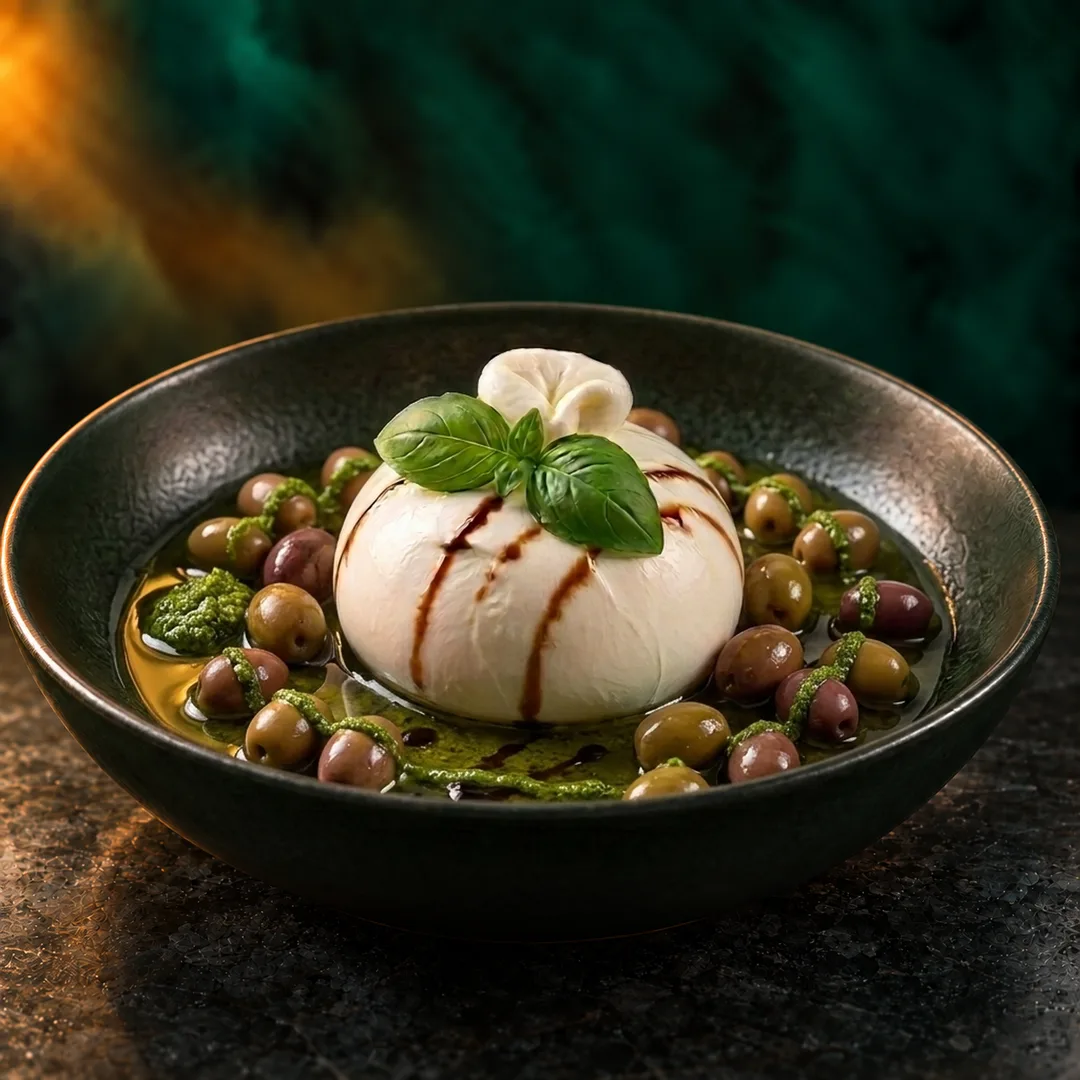
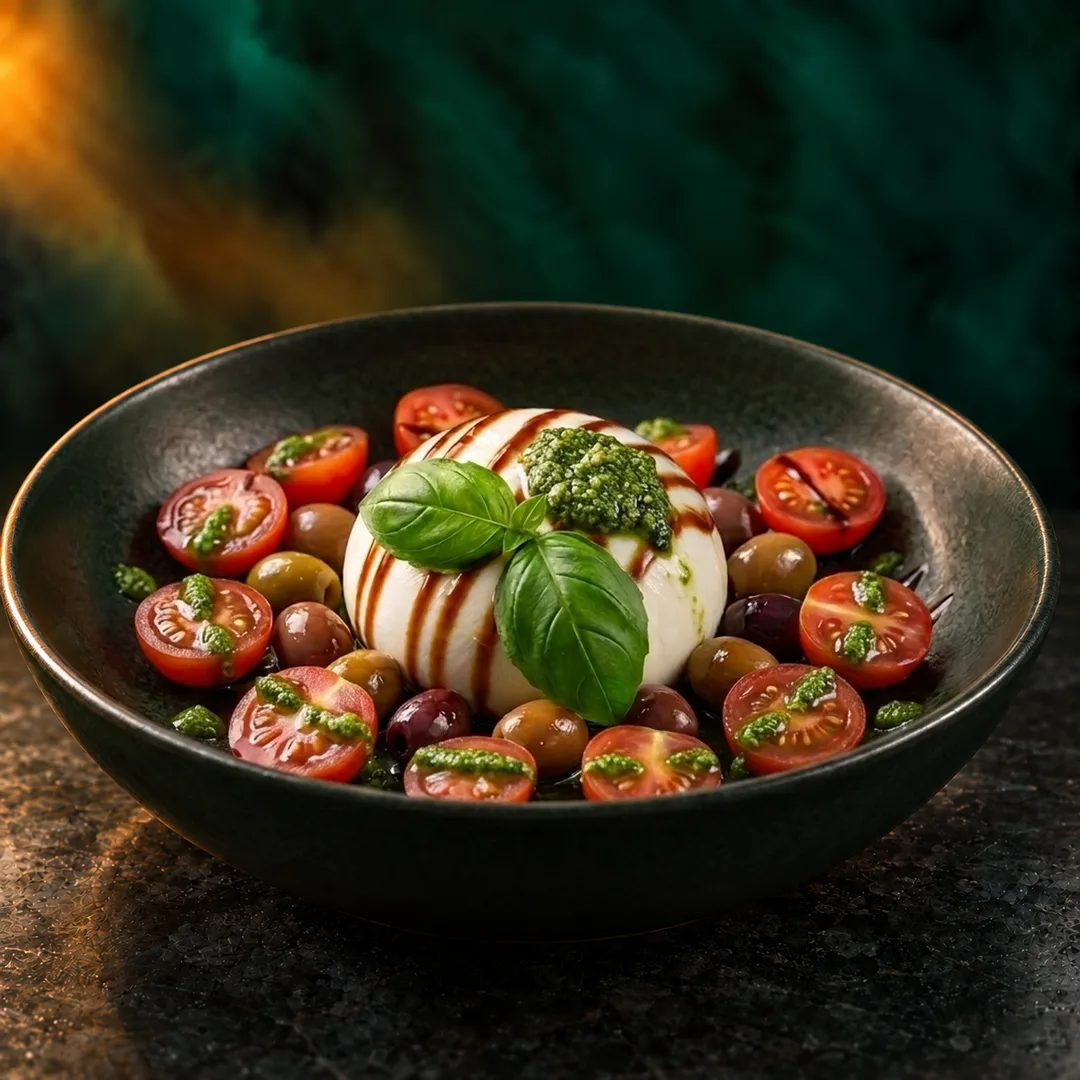
Carte : Rigatoni Carbonara ; pâtes sans tomate cerise dans les descriptions ; burrata avec tomates et pesto ; crêpes mieux décrites

Changed region(s): [[0.0611, 0.3056, 0.9472, 0.7639]]

diff --git a/tests/site.spec.ts b/tests/site.spec.ts
@@ -32,13 +32,14 @@ const dishes: { id: string; tab?: string; name: string; has: string[]; hasNot?: 
   { id: 'panuozzo-rosso', tab: 'panuozzo', name: 'Rosso', has: ['pain en pâte à pizza', 'crème de poivrons', 'roquette', 'jambon de dinde', 'chorizo finement tranché', 'stracciatella', 'poivrons', 'oignons confits', 'huile piquante'] },
   { id: 'panuozzo-tartufo', tab: 'panuozzo', name: 'Tartufo', has: ['pain en pâte à pizza', 'crème de truffe', 'roquette', 'jambon de dinde', 'jambon de bœuf', 'stracciatella', 'champignons poêlés', 'copeaux de parmesan', 'poivre moulu'] },
   { id: 'panuozzo-verde', tab: 'panuozzo', name: 'Verde', has: ['pain en pâte à pizza', 'pesto basilic', 'roquette', 'jambon de dinde', 'stracciatella', 'tomates cerises confites', 'copeaux de parmesan', 'crème balsamique'] },
-  { id: 'pates-spaghetti-sicilienne', tab: 'pates', name: 'Spaghetti Sicilienne', has: ['sauce tomate', 'thon', 'olives', 'parmesan', 'tomate cerise'] },
-  { id: 'pates-rigatoni-tartufo', tab: 'pates', name: 'Rigatoni Tartufo', has: ['truffe', 'champignons', 'copeaux de parmesan'] },
-  { id: 'pates-spaghetti-merguez', tab: 'pates', name: 'Spaghetti Merguez', has: ['merguez', 'sauce tomate crémeuse', 'olives', 'parmesan'] },
-  { id: 'pates-spaghetti-formaggi', tab: 'pates', name: 'Spaghetti Formaggi', has: ['gorgonzola', 'copeaux de parmesan'] },
+  { id: 'pates-spaghetti-sicilienne', tab: 'pates', name: 'Spaghetti Sicilienne', has: ['sauce tomate', 'thon', 'olives', 'parmesan'], hasNot: ['tomate cerise'] },
+  { id: 'pates-rigatoni-tartufo', tab: 'pates', name: 'Rigatoni Tartufo', has: ['truffe', 'champignons', 'copeaux de parmesan'], hasNot: ['tomate cerise'] },
+  { id: 'pates-spaghetti-merguez', tab: 'pates', name: 'Spaghetti Merguez', has: ['merguez', 'sauce tomate crémeuse', 'olives', 'parmesan'], hasNot: ['tomate cerise'] },
+  { id: 'pates-spaghetti-formaggi', tab: 'pates', name: 'Spaghetti Formaggi', has: ['gorgonzola', 'copeaux de parmesan'], hasNot: ['tomate cerise'] },
   { id: 'pates-penne-arrabiata', tab: 'pates', name: 'Penne Arrabbiata', has: ['sauce tomate relevée à l’huile piquante'], hasNot: ['parmesan'] },
-  { id: 'pates-penne-forestiere', tab: 'pates', name: 'Penne Forestière', has: ['poulet', 'champignons', 'sauce crémeuse au parmesan'] },
-  { id: 'pates-penne-saumon', tab: 'pates', name: 'Penne Saumon', has: ['saumon', 'sauce tomate crémeuse au parmesan'] },
+  { id: 'pates-penne-forestiere', tab: 'pates', name: 'Penne Forestière', has: ['poulet', 'champignons', 'sauce crémeuse au parmesan'], hasNot: ['tomate cerise'] },
+  { id: 'pates-penne-saumon', tab: 'pates', name: 'Penne Saumon', has: ['saumon', 'sauce tomate crémeuse au parmesan'], hasNot: ['tomate cerise'] },
+  { id: 'pates-rigatoni-carbonara', tab: 'pates', name: 'Rigatoni Carbonara', has: ['crème', 'jaune d’œuf', 'lardons', 'parmesan', 'poivre noir'], hasNot: ['tomate cerise'] },
   { id: 'pizzas-bollywood-style', tab: 'pizzas', name: 'Bollywood Style', has: ['sauce curry', 'mozzarella', 'poulet', 'oignons confits', 'tomates cerises', 'sauce basilic', 'crème balsamique'] },
   { id: 'pizzas-burratella-lov', tab: 'pizzas', name: 'Burratella Lov’', has: ['sauce tomate', 'stracciatella', 'jambon de dinde', 'copeaux de parmesan', 'sauce basilic', 'crème balsamique'] },
   { id: 'pizzas-classica-queen', tab: 'pizzas', name: 'Classica Queen', has: ['sauce tomate', 'mozzarella', 'champignons', 'jambon'] },
@@ -80,7 +81,7 @@ const dishes: { id: string; tab?: string; name: string; has: string[]; hasNot?: 
   { id: 'iced-latte-caramello', tab: 'iced-latte', name: 'Iced Caramello', has: ['sirop de vanille', 'café Caramello', 'lait entier', 'glaçons', 'chantilly', 'coulis caramel'] },
   { id: 'iced-latte-coffee-latte', tab: 'iced-latte', name: 'Iced Coffee Latte', has: ['sirop de sucre', 'Espresso Forte', 'lait entier', 'glaçons', 'chantilly'], hasNot: ['caramel', 'cacao'] },
   { id: 'iced-latte-nocciola', tab: 'iced-latte', name: 'Iced Nocciola', has: ['coulis chocolat', 'café Nocciola', 'lait entier', 'glaçons', 'chantilly'], hasNot: ['caramel', 'vanille'] },
-  { id: 'salade-original-burrata', tab: 'salade', name: 'Original Burrata', has: ['burrata', 'huile d’olive', 'olives de Ligurie', 'sauce basilic', 'crème balsamique'], hasNot: ['poulet', 'tomate'] },
+  { id: 'salade-original-burrata', tab: 'salade', name: 'Original Burrata', has: ['burrata', 'huile d’olive', 'tomates cerises', 'olives de Ligurie', 'sauce basilic', 'crème balsamique'], hasNot: ['poulet'] },
   { id: 'salade-cesar', tab: 'salade', name: 'César', has: ['salade', 'poulet', 'croûtons', 'sauce César'], hasNot: ['burrata', 'tomate'] },
   { id: 'dessert-fondant-chocolat', tab: 'dessert', name: 'Fondant au chocolat', has: ['mi-cuit au chocolat', 'glace vanille +2 €'] },
   { id: 'dessert-tiramisu-coffee', tab: 'dessert', name: 'Original Tiramisu Coffee', has: ['mascarpone', 'café', 'cacao'] },
@@ -178,7 +179,7 @@ test('aucune description ne détaille la recette', async ({ page }) => {
   for (const tab of ['burger', 'pates', 'pizzas']) {
     await page.locator(`#tab-${tab}`).click();
     const text = (await page.locator('#menu-panel').textContent()) ?? '';
-    expect(text).not.toMatch(/cuisson|louche|cuillère|égoutt|précuit|sel et|poivre\b|coupée en deux/i);
+    expect(text).not.toMatch(/cuisson|louche|cuillère|égoutt|précuit|sel et|poivre\b(?! noir)|coupée en deux/i);
   }
 });
 
